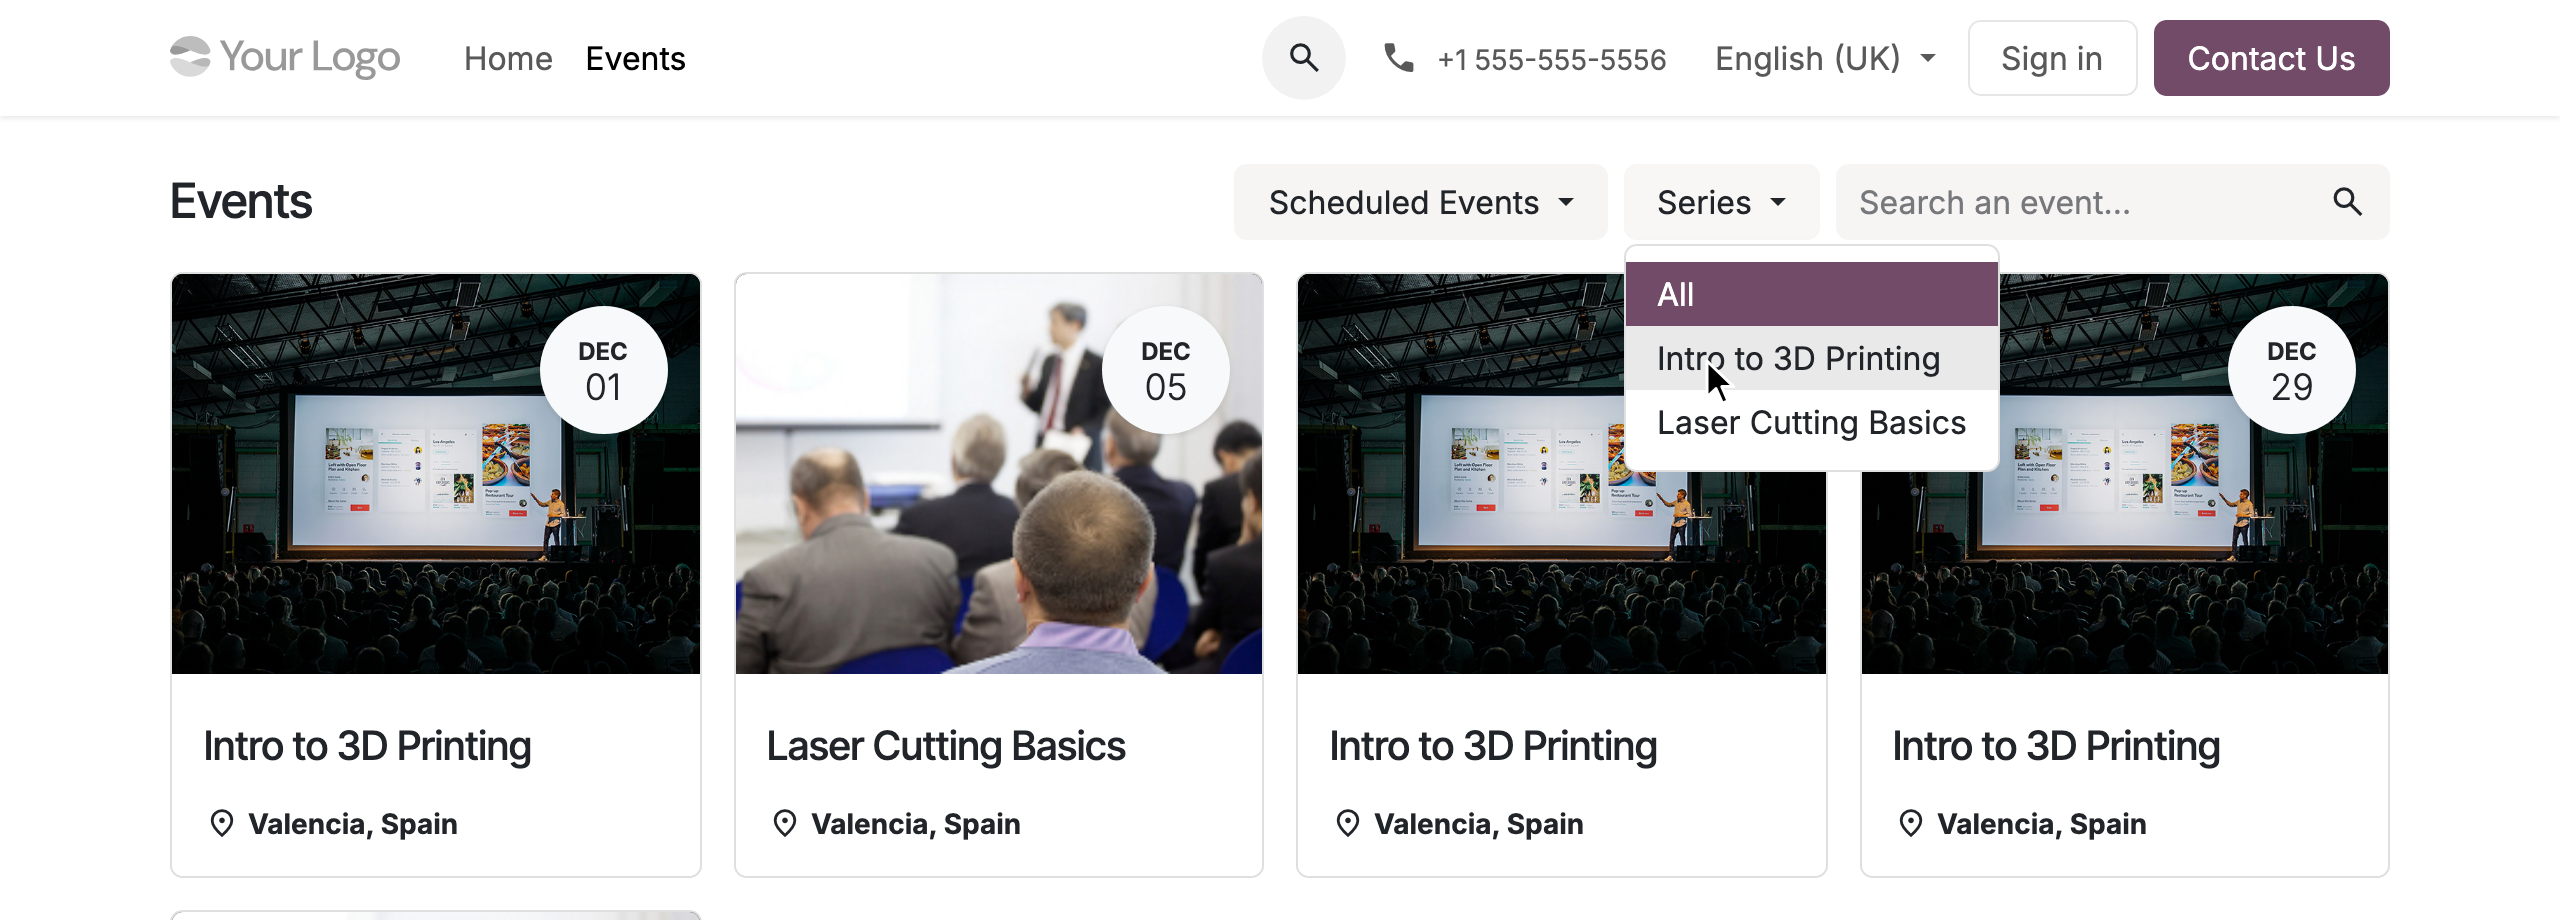
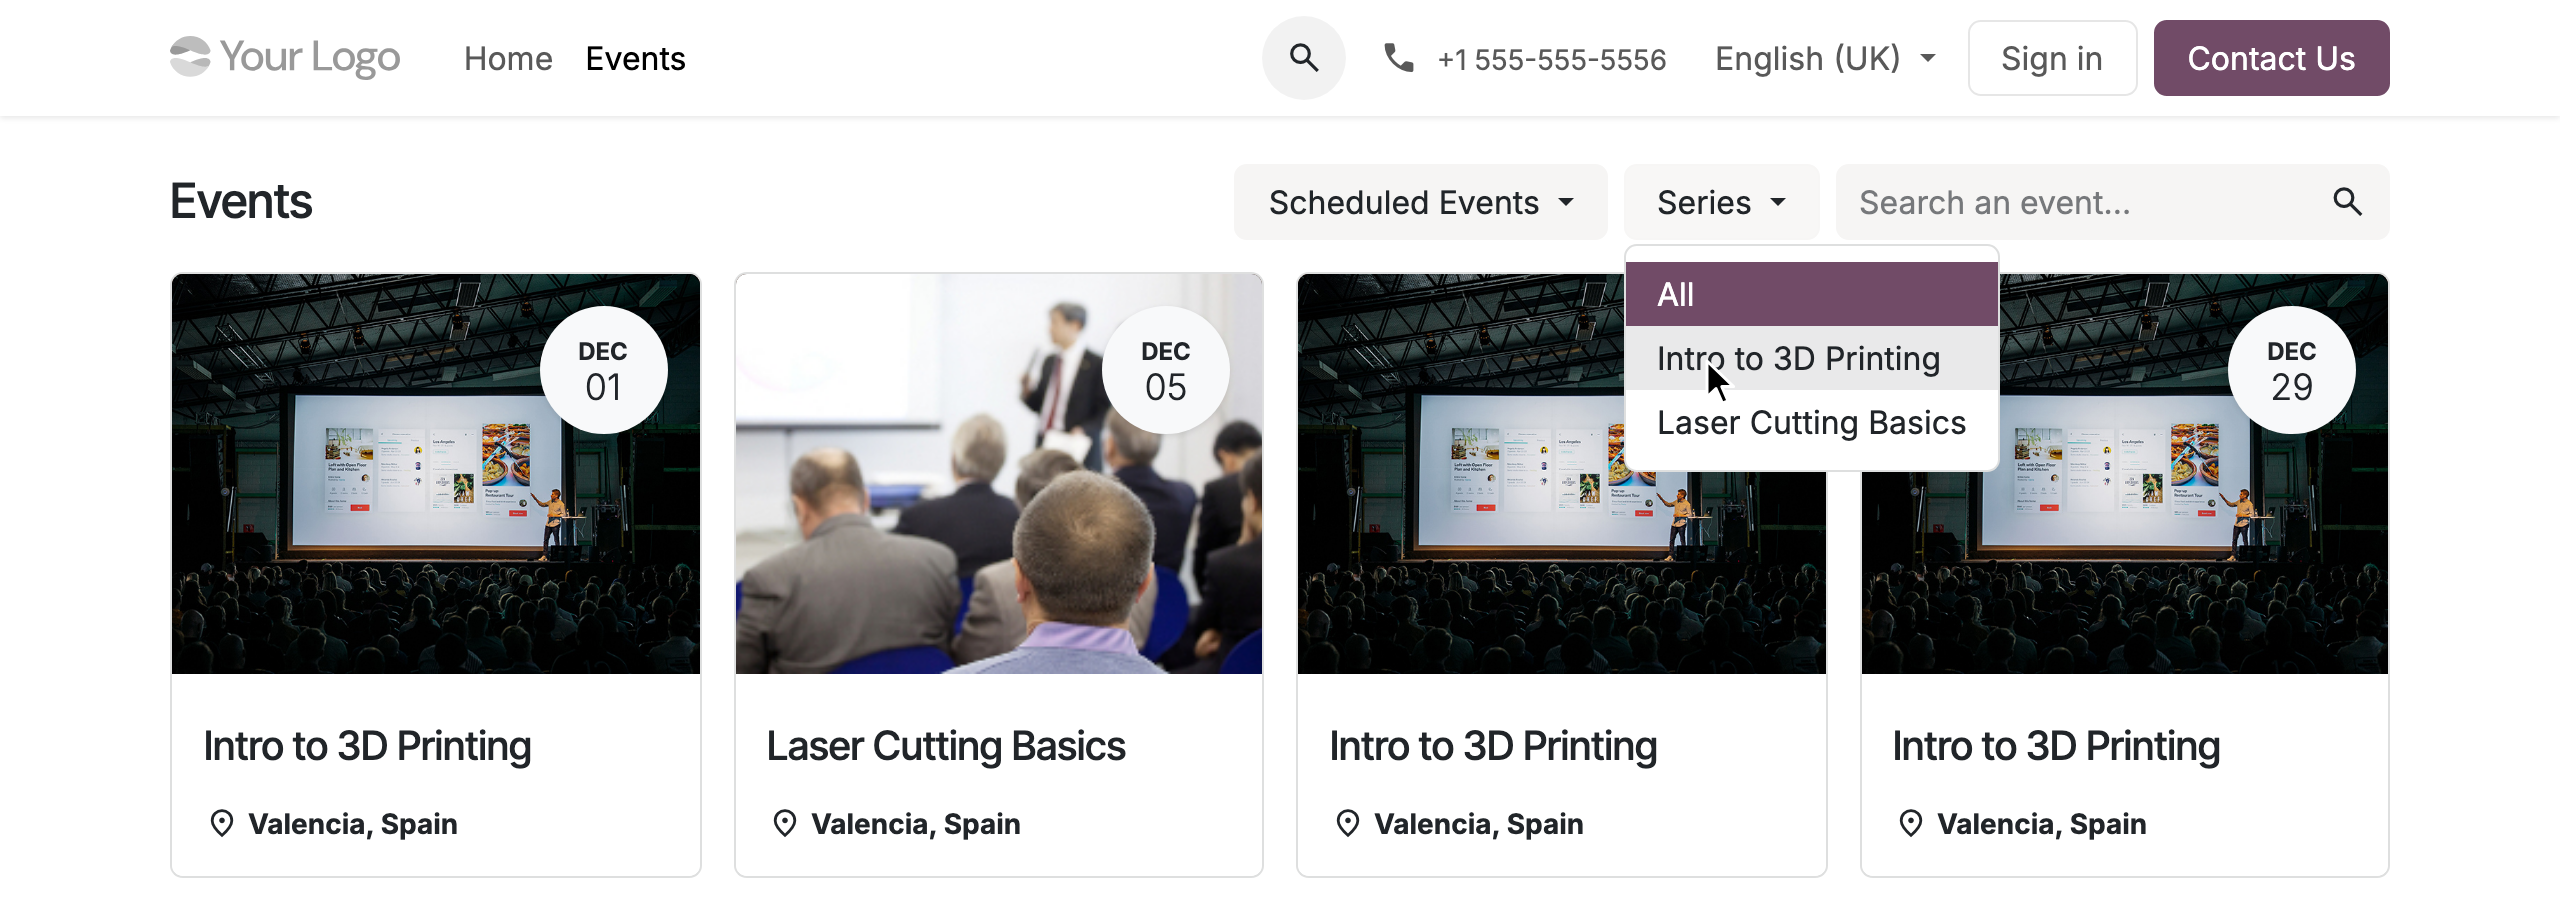
Crop vmk_website_event_series' Series filter shot above the next row
- The shot showed the top edge of a fifth event card under the first row. It now stops
  12px below the first row, and the recipe clips there from the first card's box rather
  than at a fixed height, so a retake keeps it.

diff --git a/tools/shots/recipes/vmk_website_event_series.py b/tools/shots/recipes/vmk_website_event_series.py
@@ -43,7 +43,10 @@ async def main(out):
         x, y = box["x"] + 40, box["y"] + box["height"] / 2
         await page.mouse.move(x, y, steps=6); await page.wait_for_timeout(400)
         await page.evaluate(shots.CURSOR, [x - 1, y - 1])
-        await page.screenshot(path=out / "series_filter.png", clip={"x": 0, "y": 0, "width": 1280, "height": 460})
+        # down to the first row of cards, stopping short of the next row's top edge
+        card = await page.locator(".o_wevent_events_list article").first.bounding_box()
+        await page.screenshot(path=out / "series_filter.png",
+                              clip={"x": 0, "y": 0, "width": 1280, "height": card["y"] + card["height"] + 12})
         # an event's page: its sidebar, from the date to the series' link
         await shots.goto(page, shots.BASE + event_url)
         link = page.locator(".o_vmk_event_series_link")
